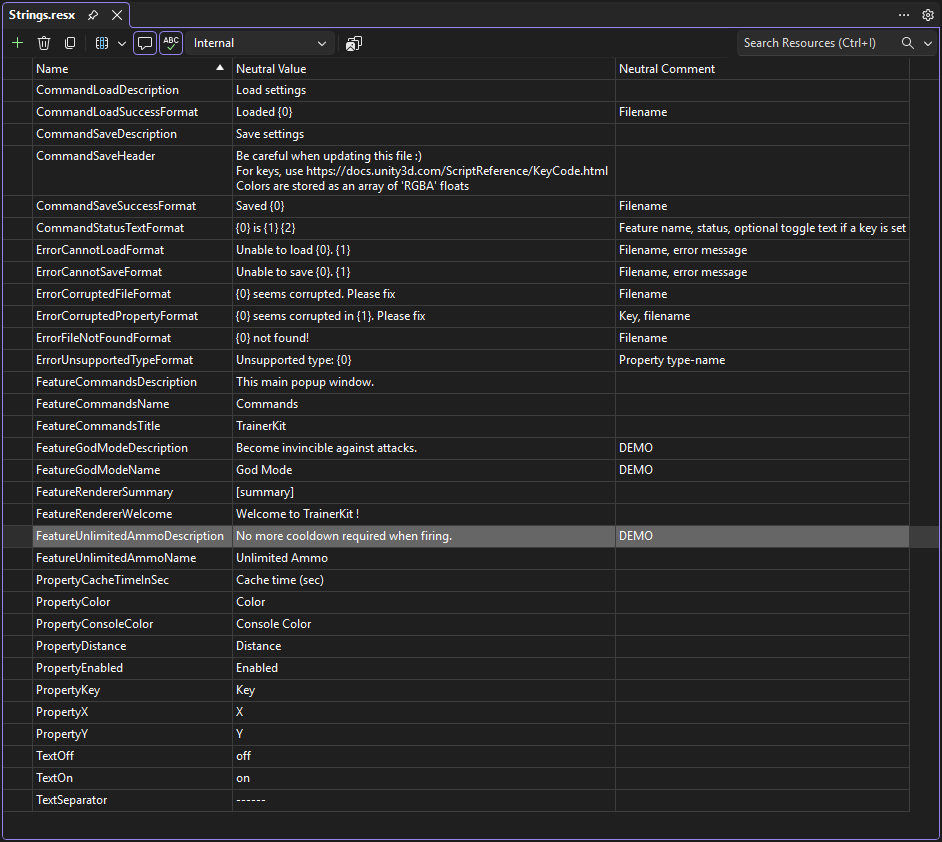
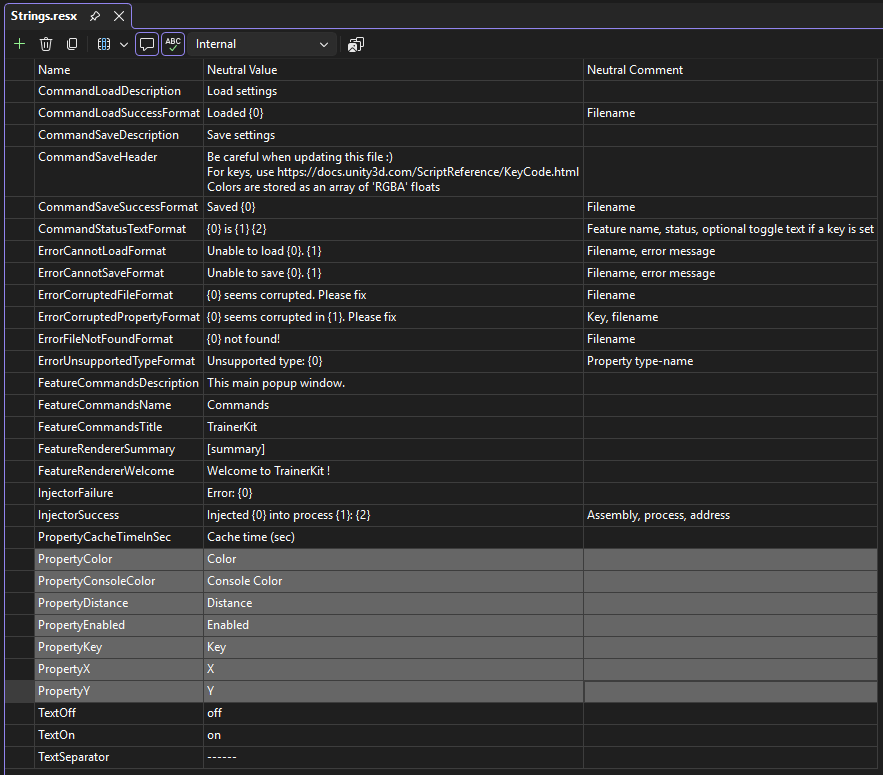
Update documentation

diff --git a/README.md b/README.md
@@ -8,6 +8,7 @@ TrainerKit simplifies the development of internal Unity trainers by handling:
 - UI rendering of features (everything is done automatically through reflection). Support for `Color`, `Float`, `Int`, `String`, `Bool`, `KeyCode` types.
 - Load/save of settings.
 - Runtime execution of Features.
+- Injection into target process.
 
 ## Example with Unity's FPS Microgame
 
@@ -75,7 +76,7 @@ internal class UnlimitedAmmo : ToggleFeature
 }
 ```
 
-and the system will automatically generate the following window (use `RightAlt` by default to display the menu):
+and the system will automatically generate the following window after injecting into the target process (use `RightAlt` by default to display the menu):
 
 ![TrainerKit Demo](./media/trainerkit.png)
 
@@ -84,7 +85,7 @@ Note that the system displays names like `!! [Id] !!` because it couldn't find t
 ![Resources](./media/resources.png)
 
 
-The following configuration file can be also automatically generated (and reloaded on next execution):
+The following configuration file can be automatically generated (and reloaded on next execution):
 
 ```ini
 ; Be careful when updating this file :)
@@ -114,7 +115,6 @@ TrainerKit.Features.Commands.Y=10.0
 1- Starting from the source code, add the necessary references to the game you want to mod. You need at least:
 
 ```text
-Newtonsoft.Json
 UnityEngine
 UnityEngine.CoreModule
 UnityEngine.IMGUIModule
@@ -129,7 +129,7 @@ ToggleFeature
 TriggerFeature
 ```
 
-Decorate your own properties with `ConfigurationPropertyAttribute`. You can finetune the behavior by using dedicated settings:
+Decorate your own properties with `ConfigurationPropertyAttribute`. This will expose your property to rendering and persistence. You can finetune the behavior by using dedicated settings:
 
 ```csharp
 [AttributeUsage(AttributeTargets.Property)]
@@ -149,13 +149,38 @@ public class ConfigurationPropertyAttribute : Attribute
 }
 ```
 
-3- Compile. If you need extra dependencies, you can either add them in the `Managed` folder of the target game, or ILMerge everything into one unique assembly.
+3- Compile. If you need extra dependencies, you can either add them in the `Managed` folder of the target game, or il-merge everything into one unique assembly (we already use `ILRepack` to add a compatible `Newtonsoft.Json` assembly).
 
-4- Inject your assembly with your favorite Mono injector, for example here with SharpMonoInjector:
+4- Run the executable, it will handle the injection into the target process (see `Program.cs` to customize the target):
+
+```csharp
+public static void Main()
+{
+	try
+	{
+		var location = Assembly.GetEntryAssembly()!.Location;
+		var bytes = File.ReadAllBytes(location);
+
+		const string processName = "TODO";
+		using var injector = new Injector(processName);
+		var intptr = injector.Inject(bytes, typeof(Context).Namespace, nameof(Context), nameof(Context.Load));
+
+		Console.WriteLine(
+			Strings.InjectorSuccess,
+			Path.GetFileName(location),
+			processName,
+			injector.Is64Bit ? $"0x{intptr.ToInt64():X16}" : $"0x{intptr.ToInt32):X8}");
+	}
+	catch (Exception e)
+	{
+		Console.WriteLine(Strings.InjectorFailure, e.Message);
+	}
+}
+```
+Here is the output, but you can still use your preferred Mono injector.
 
 ```
-smi inject -p Game -a TrainerKit.dll -n TrainerKit -c Context -m Load
-TrainerKit.dll: 0x0000015162CAE9F0
+Injected TrainerKit.exe into process FPS: 0x000002B0E9099380
 ```
 
 Indeed if we have a look at the `TrainerKit.Context.Load` method, we can see the registration logic:
@@ -176,3 +201,21 @@ public static void Load()
 ```
 
 If you hit any issue while injecting, make sure you are not missing any dependencies.
+
+## Trainers using TrainerKit
+
+- [EscapeFromTarkov-Trainer](https://github.com/sailro/EscapeFromTarkov-Trainer) for [Escape From Tarkov](https://www.escapefromtarkov.com/) game. *Before switching to IL2CPP*.
+  - No `ILRepacking`: specific `BepInEx` injector, and `NewtonSoft.Json` types are directly provided by the game assemblies. Compiled for netfx `4.7.1`
+  - Using Unity `2022.3.43f1`.
+
+- [IronCast-Trainer](https://github.com/sailro/Ironcast-Trainer) for [IronCast](http://store.steampowered.com/app/327670/) game.
+  - No `ILRepacking`: standalone `SharpMonoInjector`, and `NewtonSoft.Json` types are directly provided by the game assemblies.
+  - Using Unity `4.6.1f1`, so compiled for netfx `3.5`, requiring minor code adaptations.
+
+- [YAZDHD-Trainer]() for  [Yet Another Zombie Defense HD](https://store.steampowered.com/app/674750/Yet_Another_Zombie_Defense_HD) game.
+  - `ILRepacking` to provide `SharpMonoInjector` as a built-in injector, and `NewtonSoft.Json` types internalized. Compiled for netfx `4.8.1`.
+  - Using Unity `2019.4.13f1`.
+
+- The demo Unity's FPS Microgame used here.
+  - `ILRepacking` to provide `SharpMonoInjector` as a built-in injector, and `NewtonSoft.Json` types internalized. Compiled for netfx `4.8.1`.
+  - Using Unity `2022.3.62f3`.
